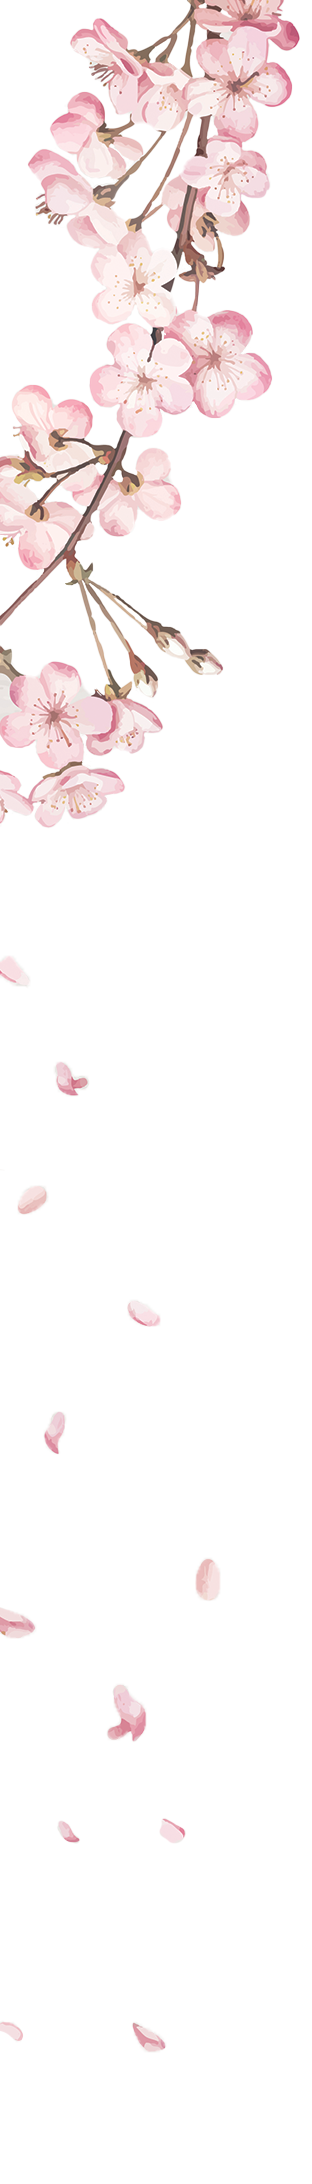
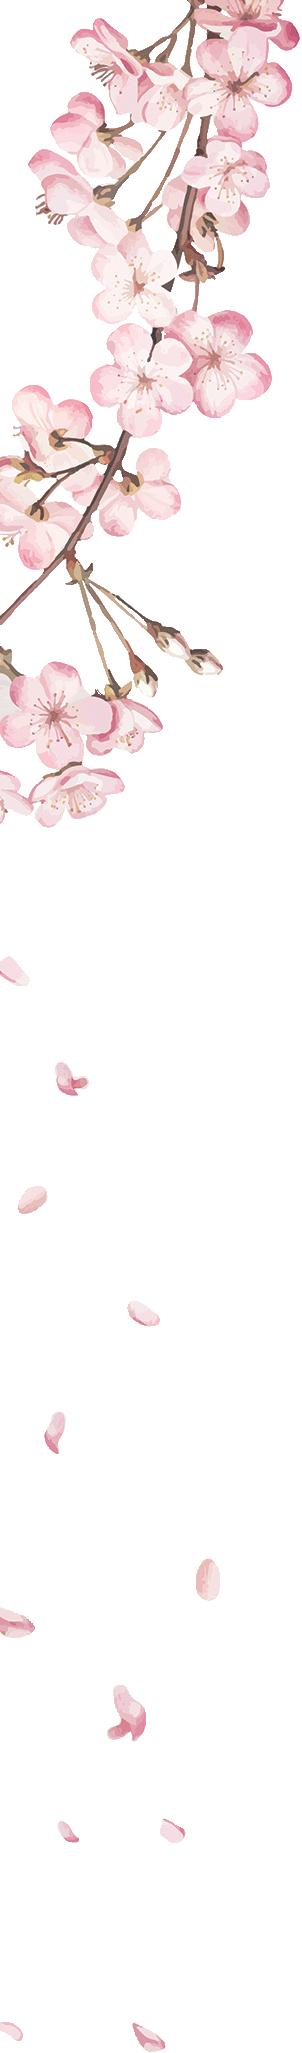
chore: smaller images

diff --git a/web/src/main.tsx b/web/src/main.tsx
@@ -3,8 +3,8 @@ import Router, { Route } from "preact-router";
 import { Link } from "preact-router/match";
 
 import "./index.css";
-import petalsLeft from "./img/petals_left_low.png";
-import petalsRight from "./img/petals_right_low.png";
+import petalsLeft from "./img/petals_left.png";
+import petalsRight from "./img/petals_right.png";
 import { Home } from "./pages/home";
 import { About } from "./pages/about";
 
